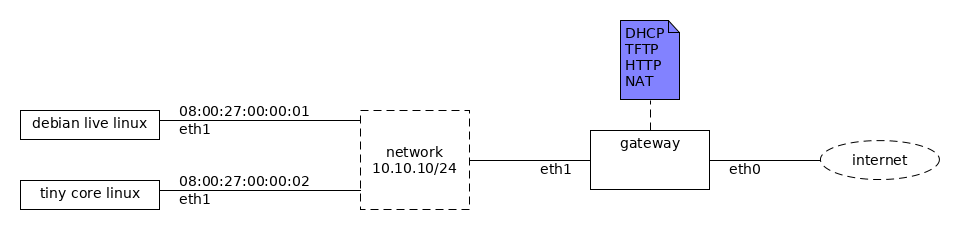
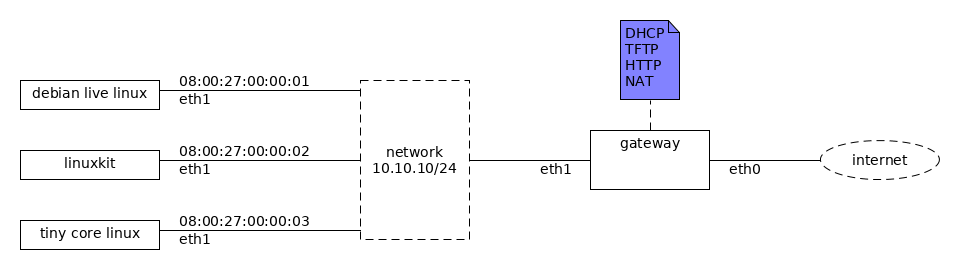
add linuxkit pxe client

diff --git a/README.md b/README.md
@@ -10,6 +10,8 @@ Run `vagrant up gateway` to launch the gateway.
 
 Run `vagrant up debian_live` to launch the `debian_live` (Debian Live) PXE client. This assumes you have `../debian-live-builder-vagrant/live-image-amd64.hybrid.iso` built as described at the [rgl/debian-live-builder-vagrant](https://github.com/rgl/debian-live-builder-vagrant) repository.
 
+Run `vagrant up linuxkit` to launch the `linuxkit` (LinuxKit) PXE client. This assumes you have `../linuxkit-vagrant/shared/sshd-kernel` (and `sshd-initrd.img`) built as described at the [rgl/linuxkit-vagrant](https://github.com/rgl/linuxkit-vagrant) repository.
+
 Run `vagrant up tcl` to launch the `tcl` (Tiny Core Linux) PXE client.
 
 # PXE boot
